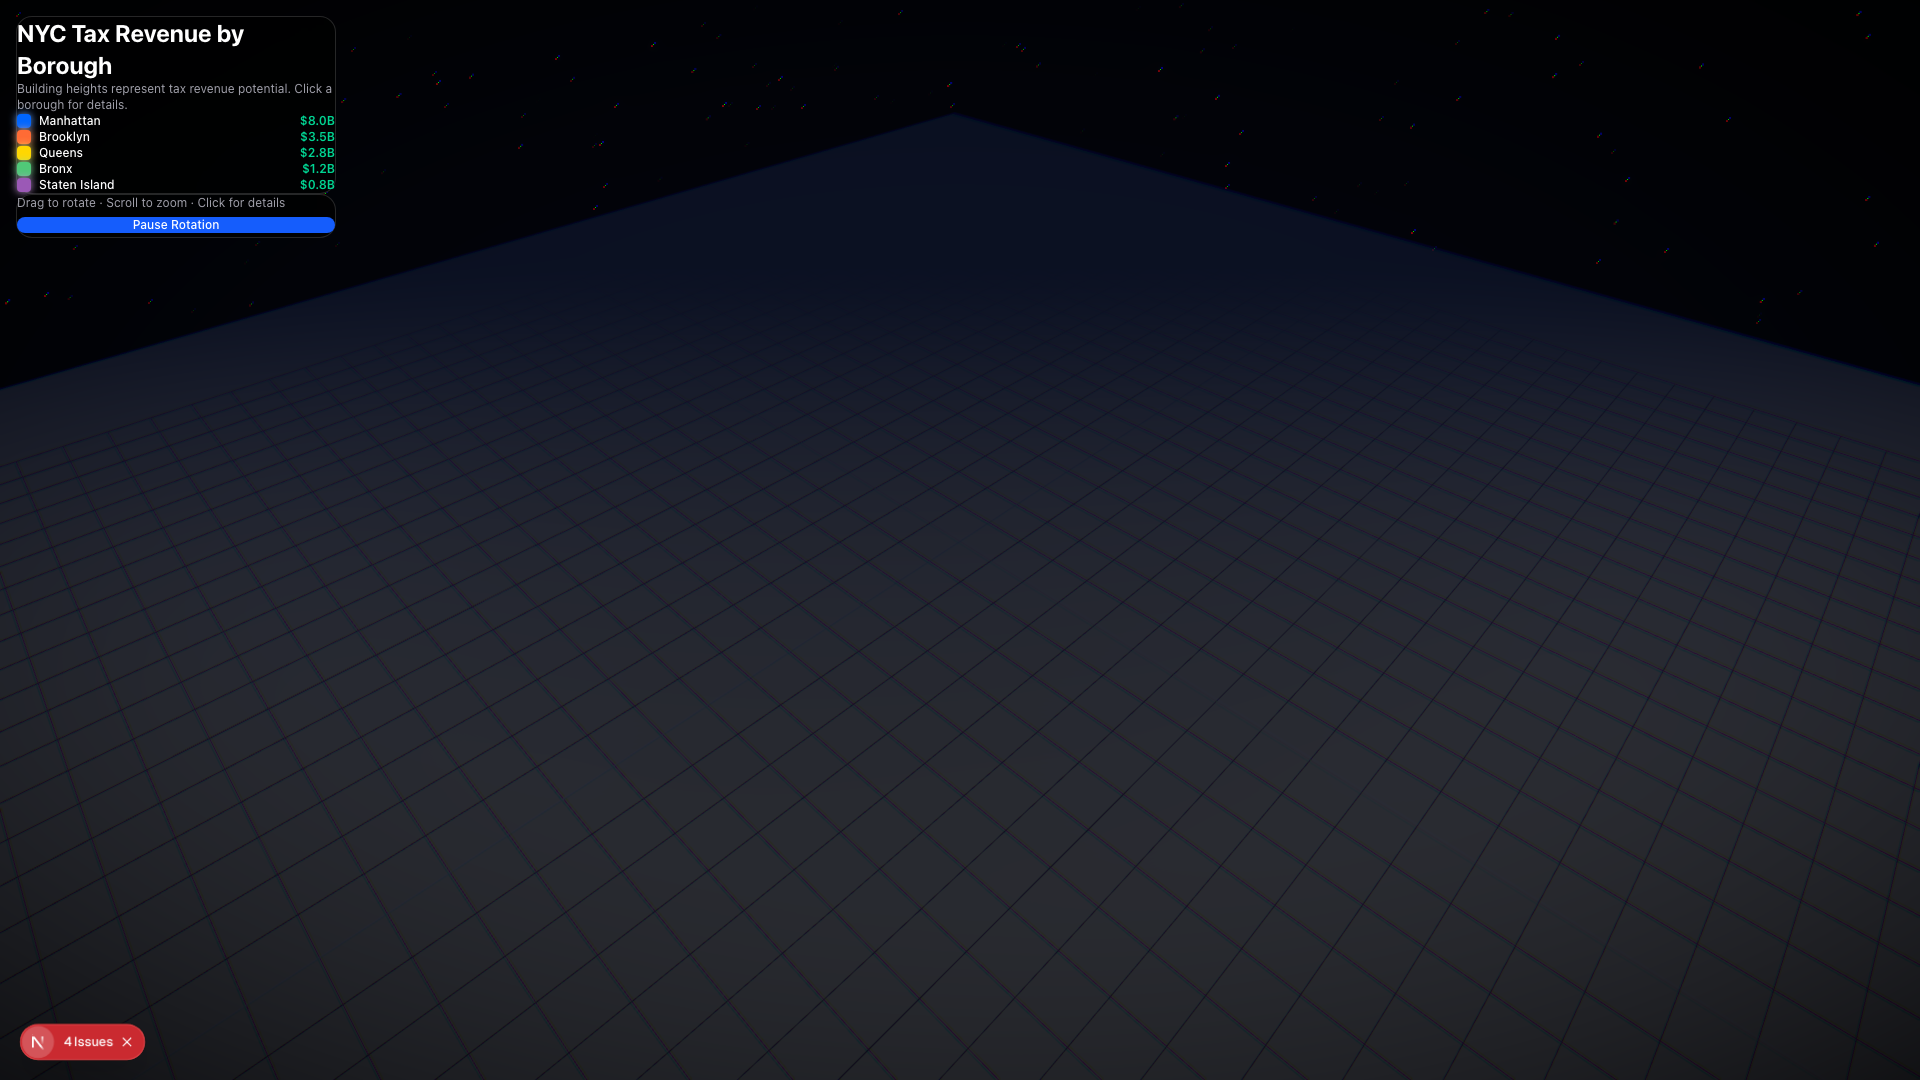
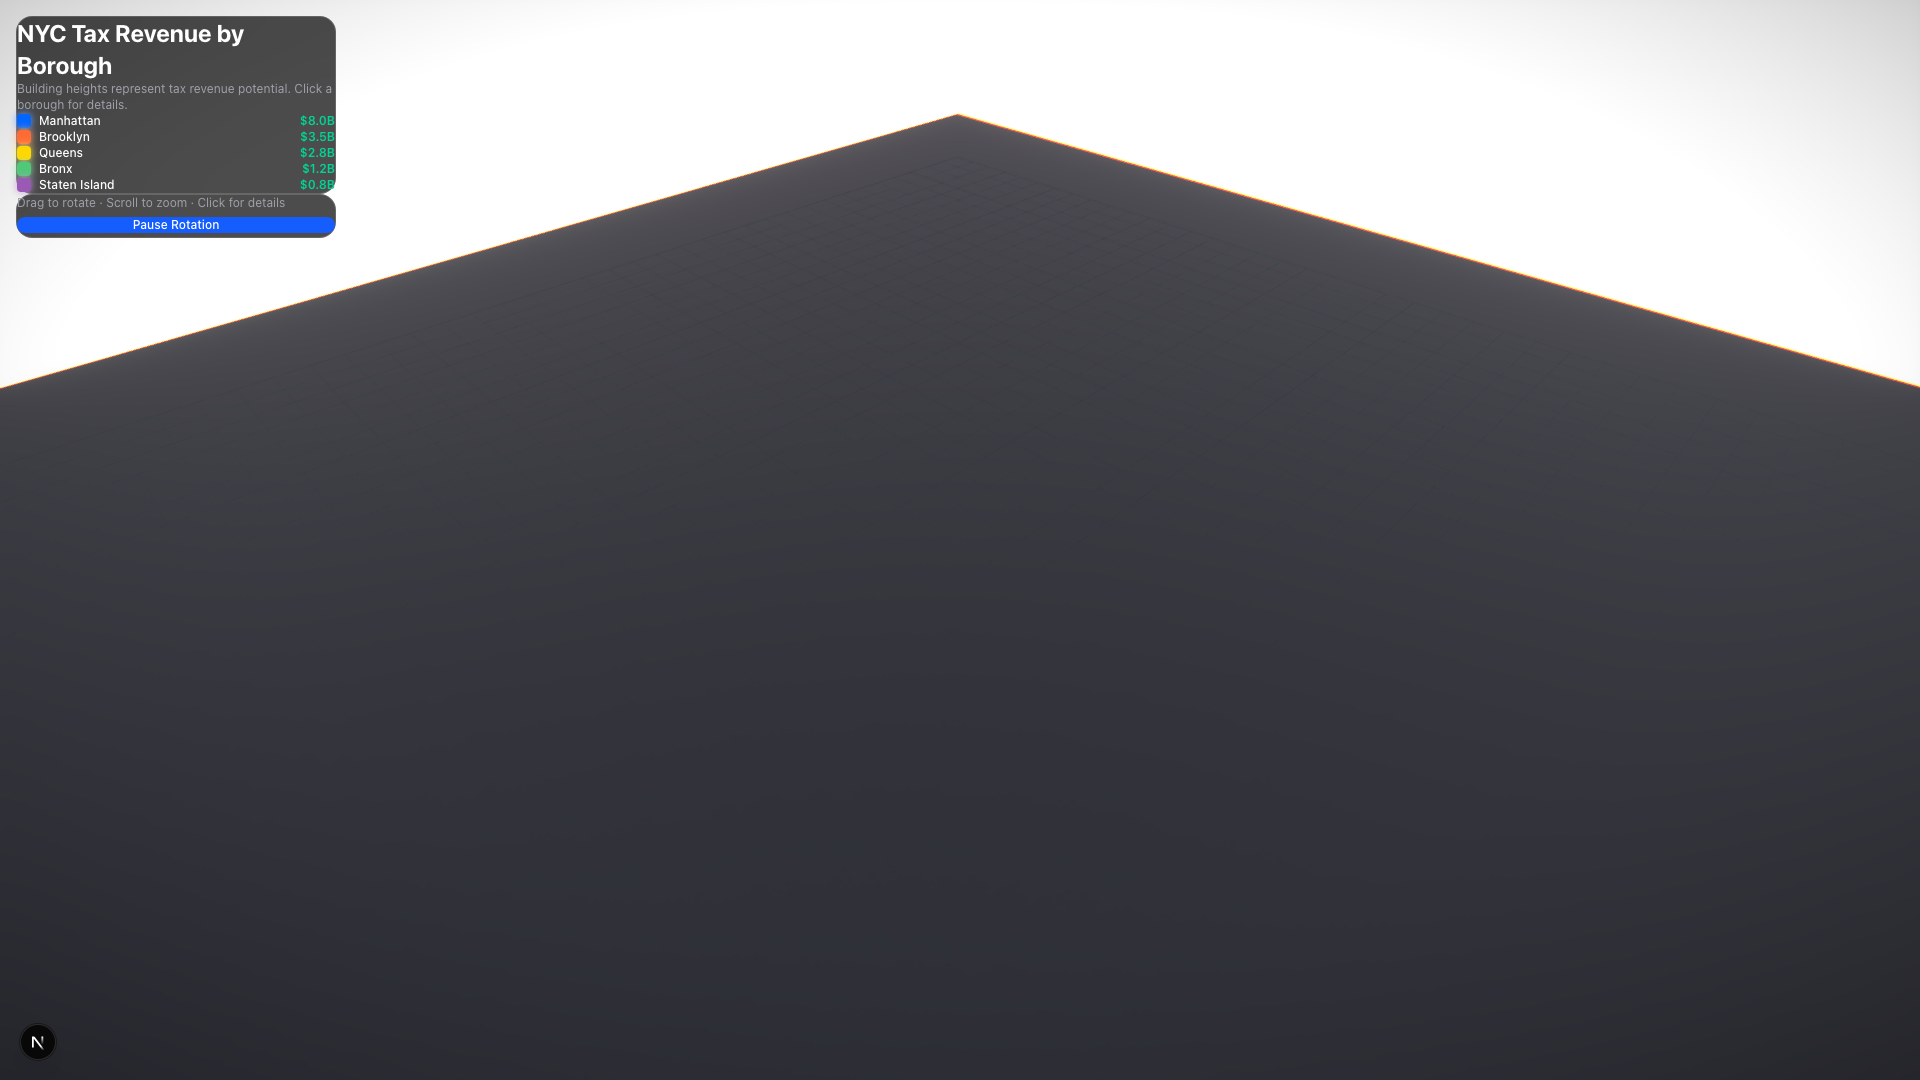
Merge visual polish fixes from visual-polish-lighting-materials-atmosphere

diff --git a/src/components/BoroughMap3DUnified.tsx b/src/components/BoroughMap3DUnified.tsx
@@ -468,7 +468,7 @@ function Scene({ boroughs, showTaxData = true, autoRotate = true }: { boroughs: 
       <mesh rotation={[-Math.PI / 2, 0, 0]} position={[0, -0.5, 0]} receiveShadow>
         <planeGeometry args={[500, 500]} />
         <meshPhysicalMaterial 
-          color="#f5f5f5"
+          color="#0f1419"
           roughness={0.9}
           metalness={0.05}
           envMapIntensity={0.2}
@@ -476,7 +476,7 @@ function Scene({ boroughs, showTaxData = true, autoRotate = true }: { boroughs: 
       </mesh>
       
       {/* Grid helper - positioned below ground plane */}
-      <gridHelper args={[400, 40, '#666666', '#cccccc']} position={[0, -0.6, 0]} />
+      <gridHelper args={[400, 40, '#334155', '#1e293b']} position={[0, -0.6, 0]} />
       
       {/* Contact shadows for better ground interaction */}
       <ContactShadows 
@@ -486,7 +486,7 @@ function Scene({ boroughs, showTaxData = true, autoRotate = true }: { boroughs: 
         blur={2.5} 
         far={50} 
         resolution={512}
-        color="#000022"
+        color="#000011"
       />
 
       <PerspectiveCamera makeDefault position={[120, 140, 120]} fov={60} />
@@ -513,7 +513,7 @@ function Scene({ boroughs, showTaxData = true, autoRotate = true }: { boroughs: 
       {/* Main directional lights with enhanced shadows */}
       <directionalLight
         position={[100, 120, 80]}
-        intensity={2.2}
+        intensity={1.2}
         color="#ffe8c5"
         castShadow
         shadow-mapSize-width={2048}
@@ -530,7 +530,7 @@ function Scene({ boroughs, showTaxData = true, autoRotate = true }: { boroughs: 
       
       <directionalLight 
         position={[80, 100, -60]} 
-        intensity={1.0} 
+        intensity={0.5} 
         color="#ffd8b3" 
         castShadow 
         shadow-mapSize-width={2048} 
@@ -548,19 +548,19 @@ function Scene({ boroughs, showTaxData = true, autoRotate = true }: { boroughs: 
       <directionalLight position={[0, -10, 0]} intensity={0.3} color="#a78bfa" />
       
       {/* Enhanced hemisphere light */}
-      <hemisphereLight intensity={0.8} color="#b8d4ff" groundColor="#2b3252" />
+      <hemisphereLight intensity={0.4} color="#b8d4ff" groundColor="#2b3252" />
       
       {/* Rim lighting for depth */}
       <RimLighting />
 
       {/* Enhanced environment */}
-      <Environment preset="city" background={false} environmentIntensity={1.5} />
+      <Environment preset="city" background={false} environmentIntensity={0.6} />
       
       {/* Volumetric atmosphere */}
-      <VolumetricAtmosphere />
+      
       
       {/* Enhanced fog */}
-      <fog attach="fog" args={["#1a2035", 100, 380]} />
+      
       
       {/* Enhanced stars */}
       {boroughs.map((borough, index) => (
@@ -621,7 +621,7 @@ function Scene({ boroughs, showTaxData = true, autoRotate = true }: { boroughs: 
       })()}
 
       <EffectComposer multisampling={4}>
-        <N8AO aoRadius={0.4} intensity={1.0} quality="performance" halfRes />
+        <N8AO aoRadius={0.4} intensity={0.5} quality="performance" halfRes />
         <Bloom intensity={0.3} luminanceThreshold={0.6} luminanceSmoothing={0.7} mipmapBlur />
         <Vignette offset={0.3} darkness={0.4} eskil={false} />
         <ChromaticAberration offset={[0.0005, 0.0005]} />
@@ -734,7 +734,7 @@ export default function BoroughMap3DUnified({
           alpha: false, 
           powerPreference: "high-performance",
           toneMapping: THREE.ACESFilmicToneMapping,
-          toneMappingExposure: 1.2,
+          toneMappingExposure: 0.7,
         }} 
         dpr={[1, 1.5]}
       >
